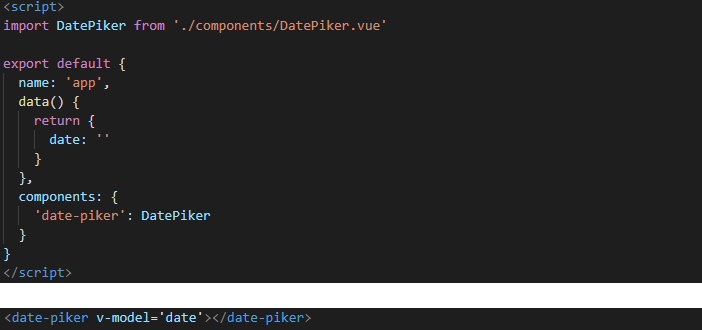
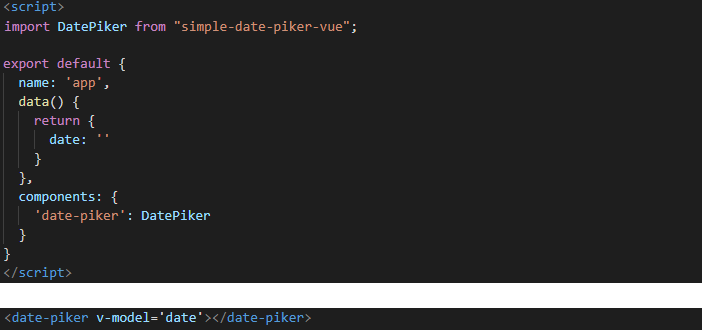
Errors in  Readne.md fixed

Changed region(s): [[0.0, 0.0606, 0.5385, 0.1212]]

diff --git a/README.md b/README.md
@@ -42,7 +42,7 @@ Component support four languages (English, Deutsch, Українська, Рус
         </tr>
         <tr>
             <td>“RU-ru”</td>
-            <td>Російська</td>
+            <td>Русский</td>
         </tr>
     </tbody>
 </table>
@@ -100,8 +100,12 @@ Component support four languages (English, Deutsch, Українська, Рус
 <p>By default, component uses English language and “dd/mm/YYYY” date format.</p>
 
 <h2>Usage</h2>
-<b>a) without options (default ones)</b>
-<p><img src="https://user-images.githubusercontent.com/39648888/55281177-612b9c00-5339-11e9-8a1e-99945c1fa459.png"></p>
 
-<b>a) with options</b>
-<p><img src="https://user-images.githubusercontent.com/39648888/55281178-612b9c00-5339-11e9-803f-af36937cfd10.png"></p>
+<p>After installation, all you need is import DatePiker component, using the next syntax:</p>
+<pre>import DatePiker from "simple-date-piker-vue"</pre>
+
+<b>a) example without options (default ones)</b>
+<p><img src="https://user-images.githubusercontent.com/39648888/55304101-865ffd80-5452-11e9-94cd-9eda1ebc495c.png"></p>
+
+<b>a) example with options</b>
+<p><img src="https://user-images.githubusercontent.com/39648888/55304102-865ffd80-5452-11e9-8e73-2745f5627b1d.png"></p>
